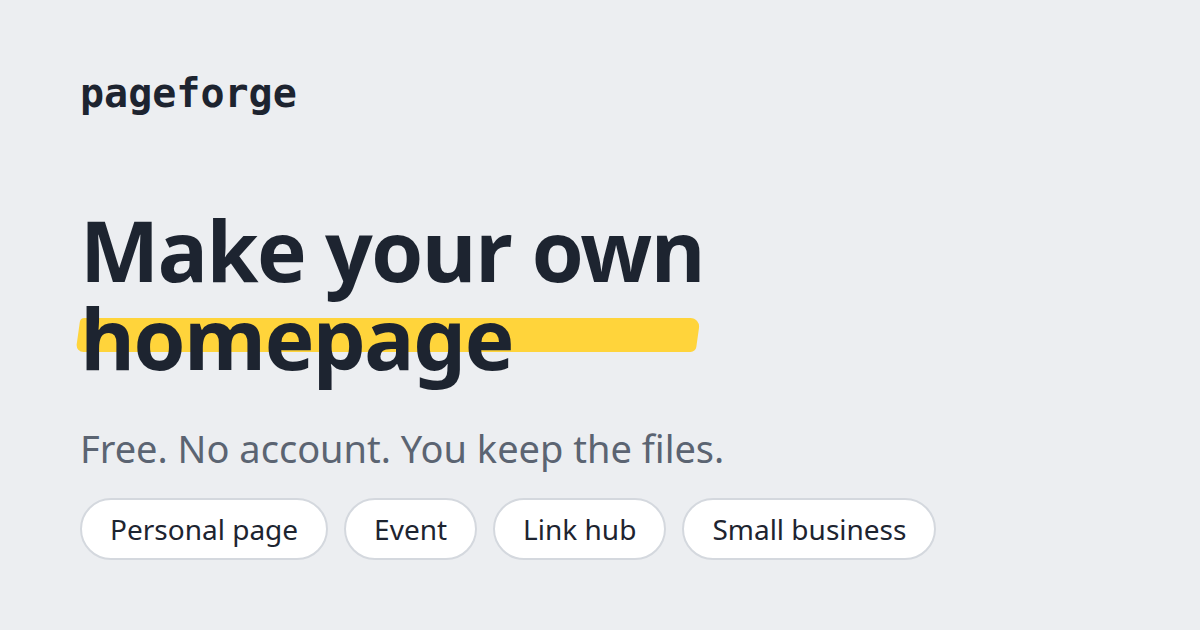
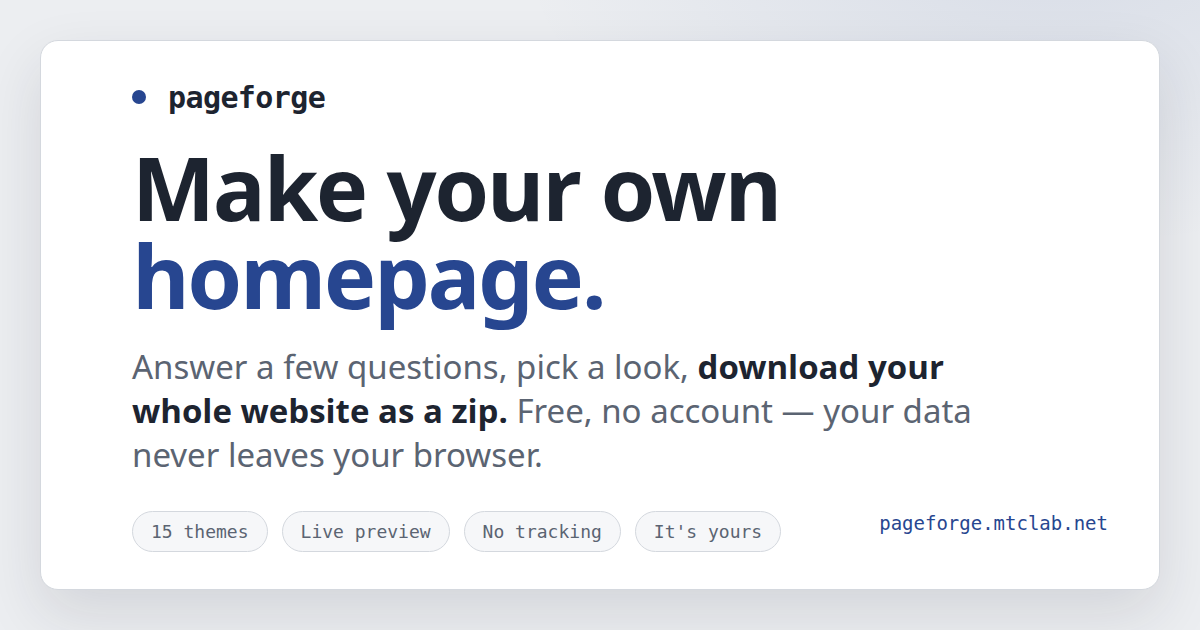
SEO: pageforge twitter/canonical/JSON-LD + robots/sitemap
Claude-Session: https://claude.ai/code/session_01KQ6CG4yrtYTyQaYXjoNcxj

diff --git a/src/static/index.html b/src/static/index.html
@@ -8,9 +8,32 @@
 <meta property="og:title" content="pageforge - make your own homepage">
 <meta property="og:description" content="Answer a few questions, pick a look, download your whole website as a zip. Free, no account, your data never leaves your browser.">
 <meta property="og:type" content="website">
+<meta property="og:site_name" content="Pageforge">
 <meta property="og:url" content="https://pageforge.mtclab.net/">
 <meta property="og:image" content="https://pageforge.mtclab.net/og.png">
+<meta property="og:image:width" content="1200">
+<meta property="og:image:height" content="630">
 <meta name="twitter:card" content="summary_large_image">
+<meta name="twitter:title" content="pageforge - make your own homepage">
+<meta name="twitter:description" content="Answer a few questions, pick a look, download your whole website as a zip. Free, no account, your data never leaves your browser.">
+<meta name="twitter:image" content="https://pageforge.mtclab.net/og.png">
+<link rel="canonical" href="https://pageforge.mtclab.net/">
+<script type="application/ld+json">
+{
+  "@context": "https://schema.org",
+  "@type": "WebApplication",
+  "name": "Pageforge",
+  "url": "https://pageforge.mtclab.net/",
+  "applicationCategory": "DesignApplication",
+  "operatingSystem": "Web",
+  "description": "Build your own personal homepage in minutes. Free, no account, no tracking - you download the whole site and it is yours.",
+  "offers": {
+    "@type": "Offer",
+    "price": "0",
+    "priceCurrency": "EUR"
+  }
+}
+</script>
 <link rel="icon" href="favicon.svg" type="image/svg+xml">
 <link rel="stylesheet" href="ui.css">
 </head>